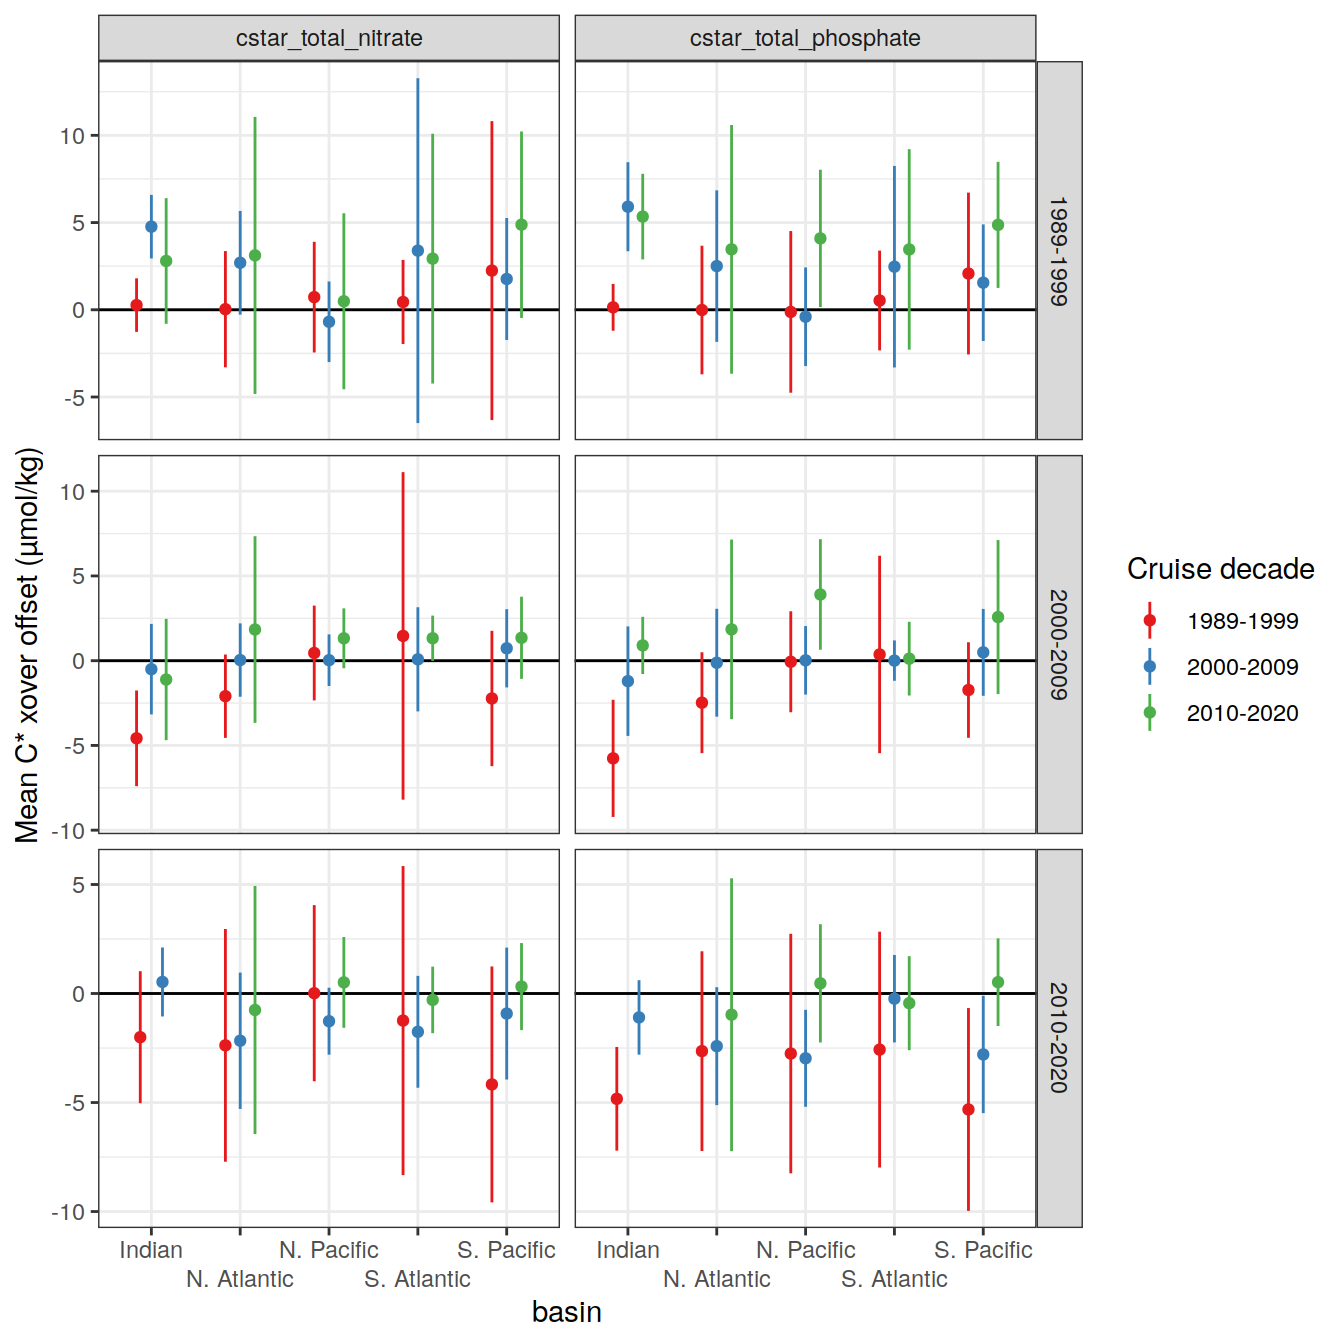
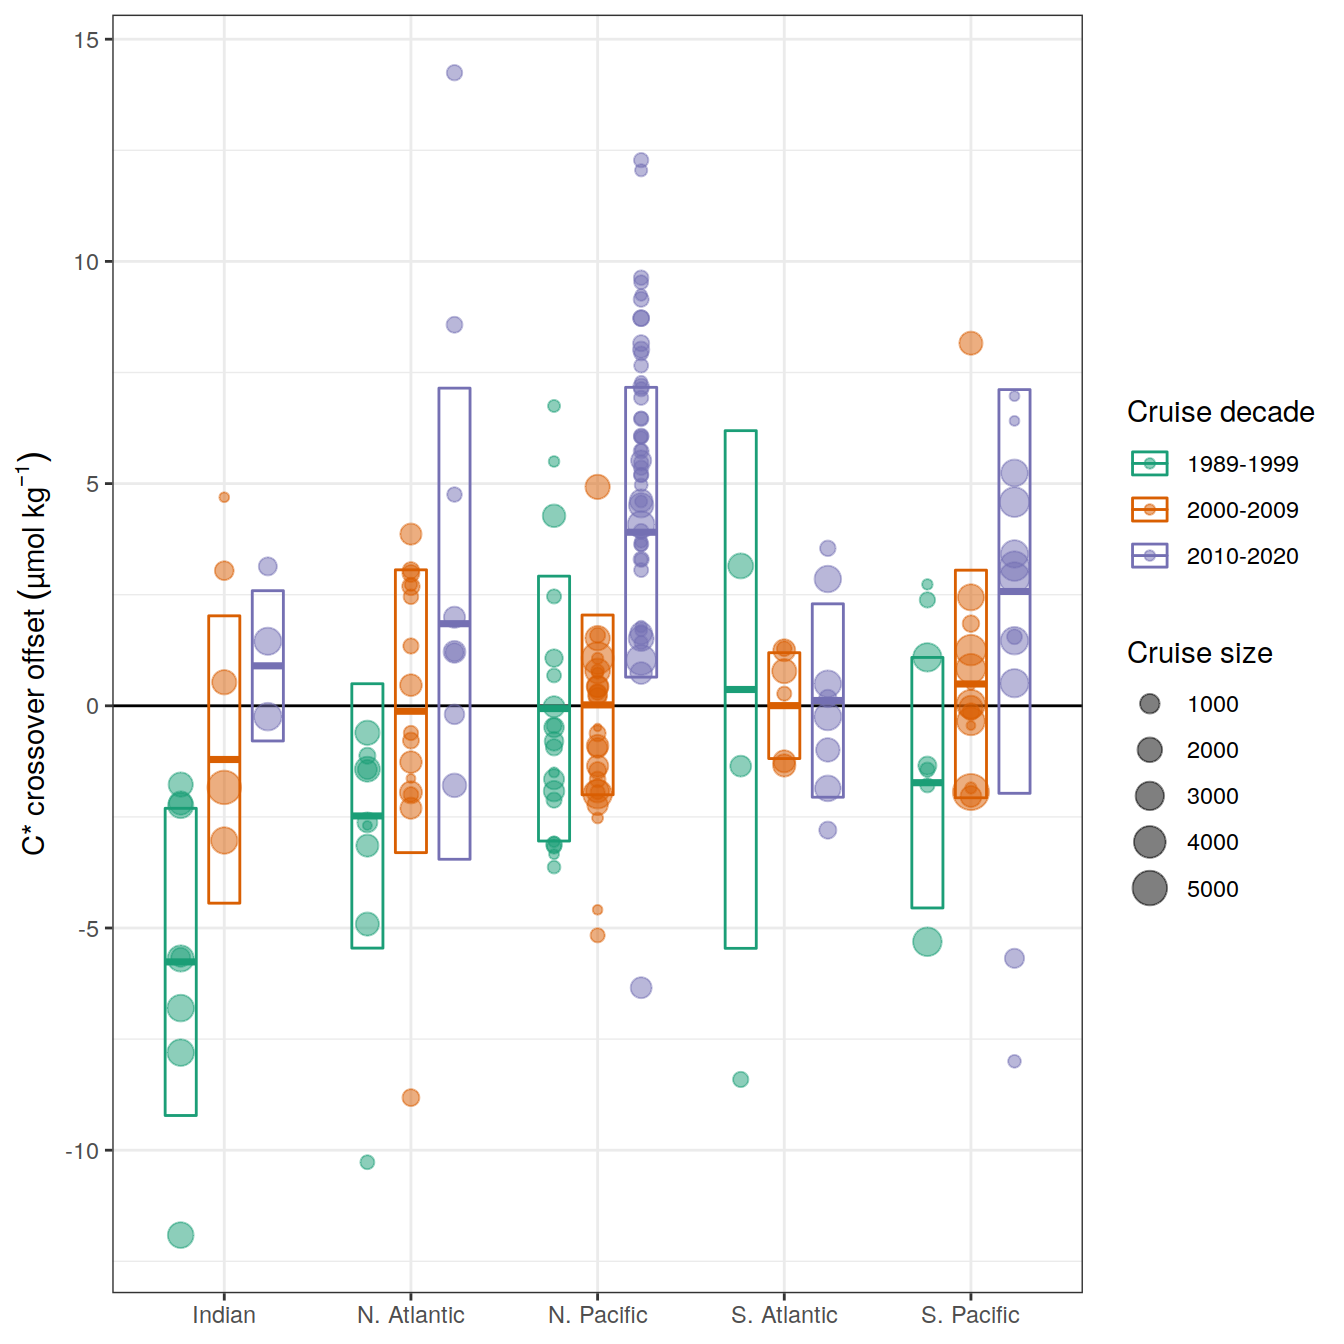
Build site.

diff --git a/docs/read_GLODAPv2_2021.html b/docs/read_GLODAPv2_2021.html
@@ -452,7 +452,7 @@ div.tocify {
 
 <h1 class="title toc-ignore">GLODAPv2_2021</h1>
 <h4 class="author">Jens Daniel Müller</h4>
-<h4 class="date">21 June, 2022</h4>
+<h4 class="date">26 August, 2022</h4>
 
 </div>
 
@@ -477,7 +477,7 @@ div.tocify {
 <div class="tab-content">
 <div id="summary" class="tab-pane fade in active">
 <p>
-<strong>Last updated:</strong> 2022-06-21
+<strong>Last updated:</strong> 2022-08-26
 </p>
 <p>
 <strong>Checks:</strong> <span class="glyphicon glyphicon-ok text-success" aria-hidden="true"></span> 7 <span class="glyphicon glyphicon-exclamation-sign text-danger" aria-hidden="true"></span> 0
@@ -568,16 +568,16 @@ This reproducible <a href="https://rmarkdown.rstudio.com">R Markdown</a> analysi
 <div class="panel panel-default">
 <div class="panel-heading">
 <p class="panel-title">
-<a data-toggle="collapse" data-parent="#workflowr-checks" href="#strongRepositoryversionstrongahrefhttpsgithubcomjensdanielmuelleremlrobspreprocessingtree58974a8c591310d59ffb9c36163c71e16f77cf1ctargetblank58974a8a"> <span class="glyphicon glyphicon-ok text-success" aria-hidden="true"></span> <strong>Repository version:</strong> <a href="https://github.com/jens-daniel-mueller/emlr_obs_preprocessing/tree/58974a8c591310d59ffb9c36163c71e16f77cf1c" target="_blank">58974a8</a> </a>
+<a data-toggle="collapse" data-parent="#workflowr-checks" href="#strongRepositoryversionstrongahrefhttpsgithubcomjensdanielmuelleremlrobspreprocessingtree1d55a8e309089280d37d55634b7e9f5789eaab92targetblank1d55a8ea"> <span class="glyphicon glyphicon-ok text-success" aria-hidden="true"></span> <strong>Repository version:</strong> <a href="https://github.com/jens-daniel-mueller/emlr_obs_preprocessing/tree/1d55a8e309089280d37d55634b7e9f5789eaab92" target="_blank">1d55a8e</a> </a>
 </p>
 </div>
[2 lines of base64/hex data omitted]
 <div class="panel-body">
 <p>
 Great! You are using Git for version control. Tracking code development and connecting the code version to the results is critical for reproducibility.
 </p>
 <p>
-The results in this page were generated with repository version <a href="https://github.com/jens-daniel-mueller/emlr_obs_preprocessing/tree/58974a8c591310d59ffb9c36163c71e16f77cf1c" target="_blank">58974a8</a>. See the <em>Past versions</em> tab to see a history of the changes made to the R Markdown and HTML files.
+The results in this page were generated with repository version <a href="https://github.com/jens-daniel-mueller/emlr_obs_preprocessing/tree/1d55a8e309089280d37d55634b7e9f5789eaab92" target="_blank">1d55a8e</a>. See the <em>Past versions</em> tab to see a history of the changes made to the R Markdown and HTML files.
 </p>
 <p>
 Note that you need to be careful to ensure that all relevant files for the analysis have been committed to Git prior to generating the results (you can use <code>wflow_publish</code> or <code>wflow_git_commit</code>). workflowr only checks the R Markdown file, but you know if there are other scripts or data files that it depends on. Below is the status of the Git repository when the results were generated:
@@ -588,6 +588,9 @@ Ignored files:
     Ignored:    .Rproj.user/
     Ignored:    data/
     Ignored:    output/
+
+Untracked files:
+    Untracked:  code/read_GLODAPv2_2022.Rmd
 
 </code></pre>
 <p>
@@ -626,6 +629,40 @@ Message
 </tr>
 </thead>
 <tbody>
+<tr>
+<td>
+Rmd
+</td>
+<td>
+<a href="https://github.com/jens-daniel-mueller/emlr_obs_preprocessing/blob/1d55a8e309089280d37d55634b7e9f5789eaab92/analysis/read_GLODAPv2_2021.Rmd" target="_blank">1d55a8e</a>
+</td>
+<td>
+jens-daniel-mueller
+</td>
+<td>
+2022-08-26
+</td>
+<td>
+implented global section with region filter
+</td>
+</tr>
+<tr>
+<td>
+html
+</td>
+<td>
+<a href="https://rawcdn.githack.com/jens-daniel-mueller/emlr_obs_preprocessing/d352672ff90902993124d61cbbc60a7d71e319ab/docs/read_GLODAPv2_2021.html" target="_blank">d352672</a>
+</td>
+<td>
+jens-daniel-mueller
+</td>
+<td>
+2022-06-21
+</td>
+<td>
+Build site.
+</td>
+</tr>
 <tr>
 <td>
 Rmd
@@ -59866,6 +59903,17 @@ Date
 <tbody>
 <tr>
 <td>
+<a href="https://github.com/jens-daniel-mueller/emlr_obs_preprocessing/blob/d352672ff90902993124d61cbbc60a7d71e319ab/docs/figure/read_GLODAPv2_2021.Rmd/NPO_2010_decadal_crossover-7.png" target="_blank">d352672</a>
+</td>
+<td>
+jens-daniel-mueller
+</td>
+<td>
+2022-06-21
+</td>
+</tr>
+<tr>
+<td>
 <a href="https://github.com/jens-daniel-mueller/emlr_obs_preprocessing/blob/44b9aae83a797e20c26c13d707489f0437adbfb0/docs/figure/read_GLODAPv2_2021.Rmd/NPO_2010_decadal_crossover-7.png" target="_blank">44b9aae</a>
 </td>
 <td>
@@ -59922,6 +59970,17 @@ Date
 </tr>
 </thead>
 <tbody>
+<tr>
+<td>
+<a href="https://github.com/jens-daniel-mueller/emlr_obs_preprocessing/blob/d352672ff90902993124d61cbbc60a7d71e319ab/docs/figure/read_GLODAPv2_2021.Rmd/NPO_2010_decadal_crossover-8.png" target="_blank">d352672</a>
+</td>
+<td>
+jens-daniel-mueller
+</td>
+<td>
+2022-06-21
+</td>
+</tr>
 <tr>
 <td>
 <a href="https://github.com/jens-daniel-mueller/emlr_obs_preprocessing/blob/44b9aae83a797e20c26c13d707489f0437adbfb0/docs/figure/read_GLODAPv2_2021.Rmd/NPO_2010_decadal_crossover-8.png" target="_blank">44b9aae</a>
@@ -64113,25 +64172,39 @@ jens-daniel-mueller
 </table>
 </div>
 </div>
-<pre class="r"><code>xover_cruise_decade_all_stats %&gt;%
-  filter(parameter %in% c(&quot;cstar_total_phosphate&quot;, &quot;cstar_total_nitrate&quot;)) %&gt;%
-  ggplot(
-    aes(
-      basin,
-      offset_adj_mean_weighted,
-      ymin = offset_adj_mean_weighted - offset_adj_sd,
-      ymax = offset_adj_mean_weighted + offset_adj_sd,
-      col = decade_A
-    )
-  ) +
+<pre class="r"><code>xover_cruise_decade_all %&gt;%
+  filter(
+    parameter_coverage == &quot;full&quot;,
+    decade == &quot;2000-2009&quot;,
+    parameter %in% c(&quot;cstar_total_phosphate&quot;)
+  ) %&gt;%
+  ggplot(aes(basin,
+             offset_adj_mean_weighted,
+             col = decade_A)) +
   geom_hline(yintercept = 0) +
-  geom_linerange(position = position_dodge(width = 0.5)) +
-  geom_point(position = position_dodge(width = 0.5)) +
-  scale_color_brewer(palette = &quot;Set1&quot;,
+  geom_crossbar(
+    data = xover_cruise_decade_all_stats %&gt;%
+      filter(
+        parameter_coverage == &quot;full&quot;,
+        decade == &quot;2000-2009&quot;,
+        parameter %in% c(&quot;cstar_total_phosphate&quot;)
+      ),
+    aes(
+      ymin = offset_adj_mean_weighted - offset_adj_sd,
+      ymax = offset_adj_mean_weighted + offset_adj_sd
+    ),
+    position = position_dodge(width = 0.7),
+    width = 0.5
+  ) +
+  geom_point(aes(size = n_A),
+             alpha = 0.5,
+             position = position_dodge(width = 0.7)) +
+  scale_color_brewer(palette = &quot;Dark2&quot;,
                      name = &quot;Cruise decade&quot;) +
-  facet_grid(decade ~ parameter, scales = &quot;free_y&quot;) +
-  labs(y = &quot;Mean C* xover offset (µmol/kg)&quot;) +
-  scale_x_discrete(guide = guide_axis(n.dodge = 2))</code></pre>
+  scale_size(name = &quot;Cruise size&quot;) +
+  labs(y = expression(&quot;C*&quot;~crossover~offset~(µmol~kg^{-1}))) +
+  # scale_x_discrete(guide = guide_axis(n.dodge = 2)) +
+  theme(axis.title.x = element_blank())</code></pre>
 <p><img src="figure/read_GLODAPv2_2021.Rmd/mean_decadal_cstar_xover_offsets-2.png" width="672" style="display: block; margin: auto;" /></p>
 <p>
 <button type="button" class="btn btn-default btn-xs btn-workflowr btn-workflowr-fig" data-toggle="collapse" data-target="#fig-mean_decadal_cstar_xover_offsets-2">
@@ -64181,6 +64254,34 @@ jens-daniel-mueller
 </table>
 </div>
 </div>
+<pre class="r"><code>ggsave(
+  path = &quot;/UP_home/jenmueller/Projects/emlr_cant/observations/emlr_obs_analysis/output/publication&quot;,
+  filename = &quot;FigS_crossover_offsets.png&quot;,
+  height = 4,
+  width = 6
+)
+
+
+xover_cruise_decade_all_stats %&gt;%
+  filter(parameter %in% c(&quot;cstar_total_phosphate&quot;, &quot;cstar_total_nitrate&quot;)) %&gt;%
+  ggplot(
+    aes(
+      basin,
+      offset_adj_mean_weighted,
+      ymin = offset_adj_mean_weighted - offset_adj_sd,
+      ymax = offset_adj_mean_weighted + offset_adj_sd,
+      col = decade_A
+    )
+  ) +
+  geom_hline(yintercept = 0) +
+  geom_linerange(position = position_dodge(width = 0.5)) +
+  geom_point(position = position_dodge(width = 0.5)) +
+  scale_color_brewer(palette = &quot;Set1&quot;,
+                     name = &quot;Cruise decade&quot;) +
+  facet_grid(decade ~ parameter, scales = &quot;free_y&quot;) +
+  labs(y = &quot;Mean C* xover offset (µmol/kg)&quot;) +
+  scale_x_discrete(guide = guide_axis(n.dodge = 2))</code></pre>
+<p><img src="figure/read_GLODAPv2_2021.Rmd/mean_decadal_cstar_xover_offsets-3.png" width="672" style="display: block; margin: auto;" /></p>
 <pre class="r"><code>xover_cruise_decade_all_stats %&gt;% 
   kable() %&gt;%
   kable_styling() %&gt;%
@@ -84065,12 +84166,12 @@ attached base packages:
 [1] stats     graphics  grDevices utils     datasets  methods   base     
 
 other attached packages:
- [1] kableExtra_1.3.4 ggrepel_0.9.1    lubridate_1.8.0  colorspace_2.0-2
- [5] marelac_2.1.10   shape_1.4.6      ggforce_0.3.3    metR_0.11.0     
- [9] scico_1.3.0      patchwork_1.1.1  collapse_1.7.0   forcats_0.5.1   
-[13] stringr_1.4.0    dplyr_1.0.7      purrr_0.3.4      readr_2.1.1     
-[17] tidyr_1.1.4      tibble_3.1.6     ggplot2_3.3.5    tidyverse_1.3.1 
-[21] workflowr_1.7.0 
+ [1] kableExtra_1.3.4   ggrepel_0.9.1      lubridate_1.8.0    geomtextpath_0.1.0
+ [5] colorspace_2.0-2   marelac_2.1.10     shape_1.4.6        ggforce_0.3.3     
+ [9] metR_0.11.0        scico_1.3.0        patchwork_1.1.1    collapse_1.7.0    
+[13] forcats_0.5.1      stringr_1.4.0      dplyr_1.0.7        purrr_0.3.4       
+[17] readr_2.1.1        tidyr_1.1.4        tibble_3.1.6       ggplot2_3.3.5     
+[21] tidyverse_1.3.1    workflowr_1.7.0   
 
 loaded via a namespace (and not attached):
  [1] nlme_3.1-155       fs_1.5.2           bit64_4.0.5        gsw_1.0-6         
@@ -84078,24 +84179,24 @@ loaded via a namespace (and not attached):
  [9] tools_4.1.2        backports_1.4.1    bslib_0.3.1        utf8_1.2.2        
 [13] R6_2.5.1           mgcv_1.8-38        DBI_1.1.2          withr_2.4.3       
 [17] tidyselect_1.1.1   processx_3.5.2     bit_4.0.4          compiler_4.1.2    
-[21] git2r_0.29.0       cli_3.1.1          rvest_1.0.2        xml2_1.3.3        
-[25] labeling_0.4.2     sass_0.4.0         scales_1.1.1       checkmate_2.0.0   
-[29] SolveSAPHE_2.1.0   callr_3.7.0        systemfonts_1.0.3  digest_0.6.29     
-[33] svglite_2.0.0      rmarkdown_2.11     oce_1.5-0          pkgconfig_2.0.3   
-[37] htmltools_0.5.2    highr_0.9          dbplyr_2.1.1       fastmap_1.1.0     
-[41] rlang_1.0.2        readxl_1.3.1       rstudioapi_0.13    jquerylib_0.1.4   
-[45] generics_0.1.1     farver_2.1.0       jsonlite_1.7.3     vroom_1.5.7       
-[49] magrittr_2.0.1     Matrix_1.4-0       Rcpp_1.0.8         munsell_0.5.0     
-[53] fansi_1.0.2        lifecycle_1.0.1    stringi_1.7.6      whisker_0.4       
-[57] yaml_2.2.1         MASS_7.3-55        grid_4.1.2         parallel_4.1.2    
-[61] promises_1.2.0.1   crayon_1.4.2       lattice_0.20-45    splines_4.1.2     
-[65] haven_2.4.3        hms_1.1.1          seacarb_3.3.0      knitr_1.37        
-[69] ps_1.6.0           pillar_1.6.4       reprex_2.0.1       glue_1.6.0        
-[73] evaluate_0.14      getPass_0.2-2      data.table_1.14.2  modelr_0.1.8      
-[77] vctrs_0.3.8        tzdb_0.2.0         tweenr_1.0.2       httpuv_1.6.5      
-[81] cellranger_1.1.0   gtable_0.3.0       polyclip_1.10-0    assertthat_0.2.1  
-[85] xfun_0.29          broom_0.7.11       later_1.3.0        viridisLite_0.4.0 
-[89] ellipsis_0.3.2    </code></pre>
+[21] git2r_0.29.0       textshaping_0.3.6  cli_3.1.1          rvest_1.0.2       
+[25] xml2_1.3.3         labeling_0.4.2     sass_0.4.0         scales_1.1.1      
+[29] checkmate_2.0.0    SolveSAPHE_2.1.0   callr_3.7.0        systemfonts_1.0.3 
+[33] digest_0.6.29      svglite_2.0.0      rmarkdown_2.11     oce_1.5-0         
+[37] pkgconfig_2.0.3    htmltools_0.5.2    highr_0.9          dbplyr_2.1.1      
+[41] fastmap_1.1.0      rlang_1.0.2        readxl_1.3.1       rstudioapi_0.13   
+[45] jquerylib_0.1.4    generics_0.1.1     farver_2.1.0       jsonlite_1.7.3    
+[49] vroom_1.5.7        magrittr_2.0.1     Matrix_1.4-0       Rcpp_1.0.8        
+[53] munsell_0.5.0      fansi_1.0.2        lifecycle_1.0.1    stringi_1.7.6     
+[57] whisker_0.4        yaml_2.2.1         MASS_7.3-55        grid_4.1.2        
+[61] parallel_4.1.2     promises_1.2.0.1   crayon_1.4.2       lattice_0.20-45   
+[65] splines_4.1.2      haven_2.4.3        hms_1.1.1          seacarb_3.3.0     
+[69] knitr_1.37         ps_1.6.0           pillar_1.6.4       reprex_2.0.1      
+[73] glue_1.6.0         evaluate_0.14      getPass_0.2-2      data.table_1.14.2 
+[77] modelr_0.1.8       vctrs_0.3.8        tzdb_0.2.0         tweenr_1.0.2      
+[81] httpuv_1.6.5       cellranger_1.1.0   gtable_0.3.0       polyclip_1.10-0   
+[85] assertthat_0.2.1   xfun_0.29          broom_0.7.11       later_1.3.0       
+[89] viridisLite_0.4.0  ellipsis_0.3.2    </code></pre>
 </div>
 </div>
 </div>
